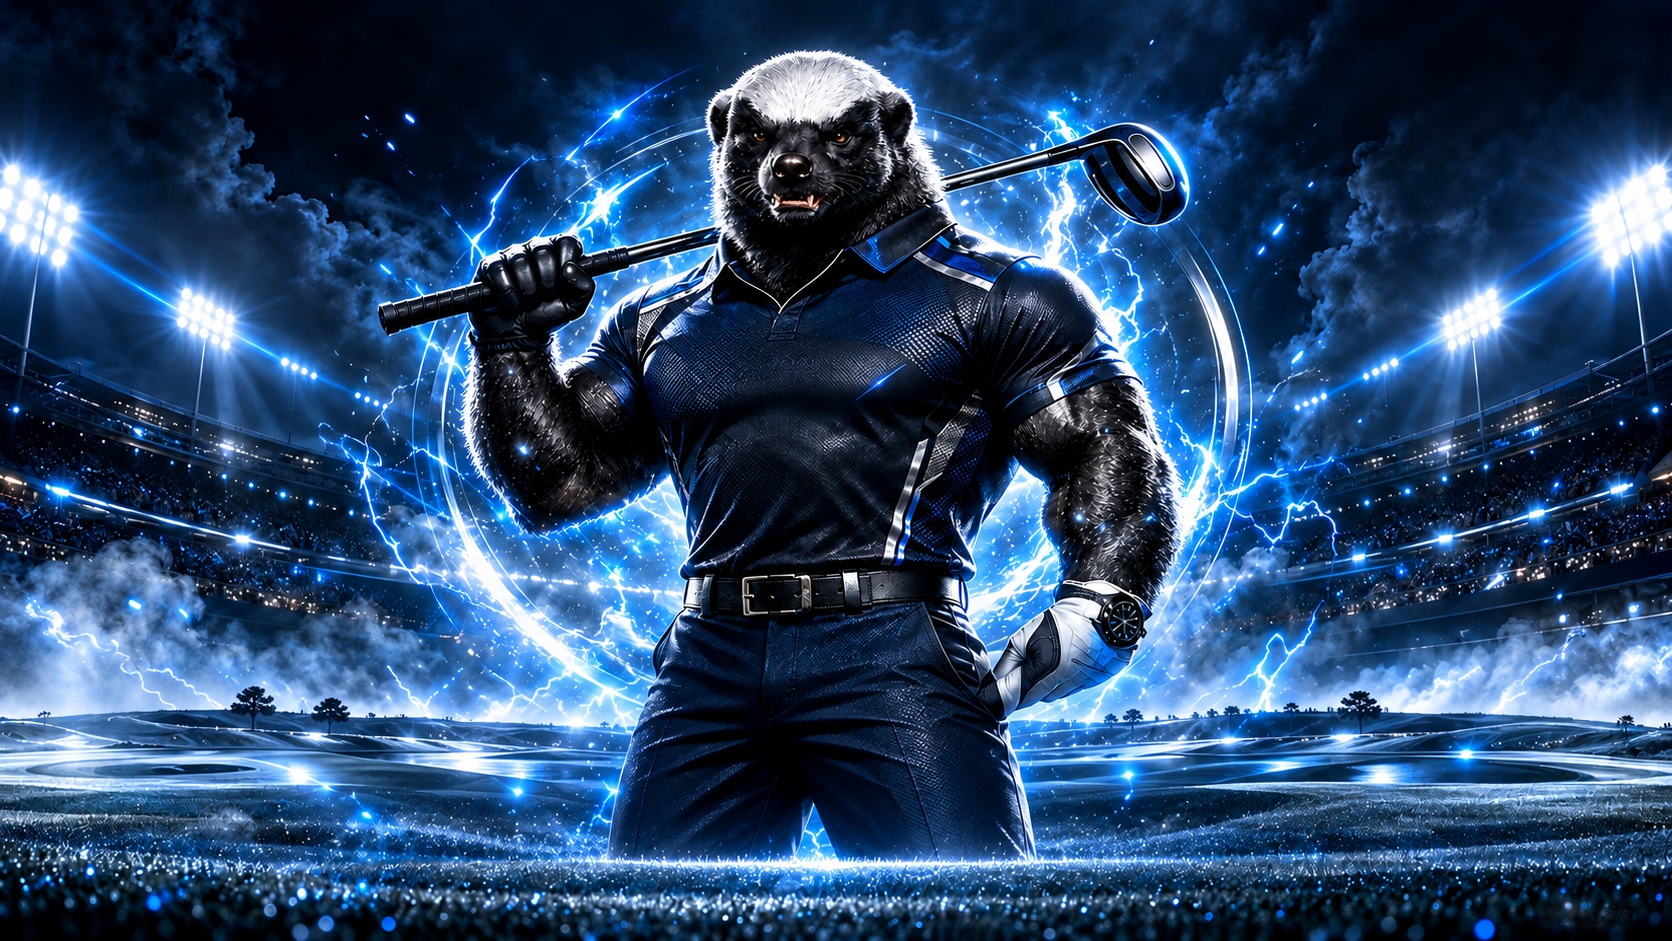
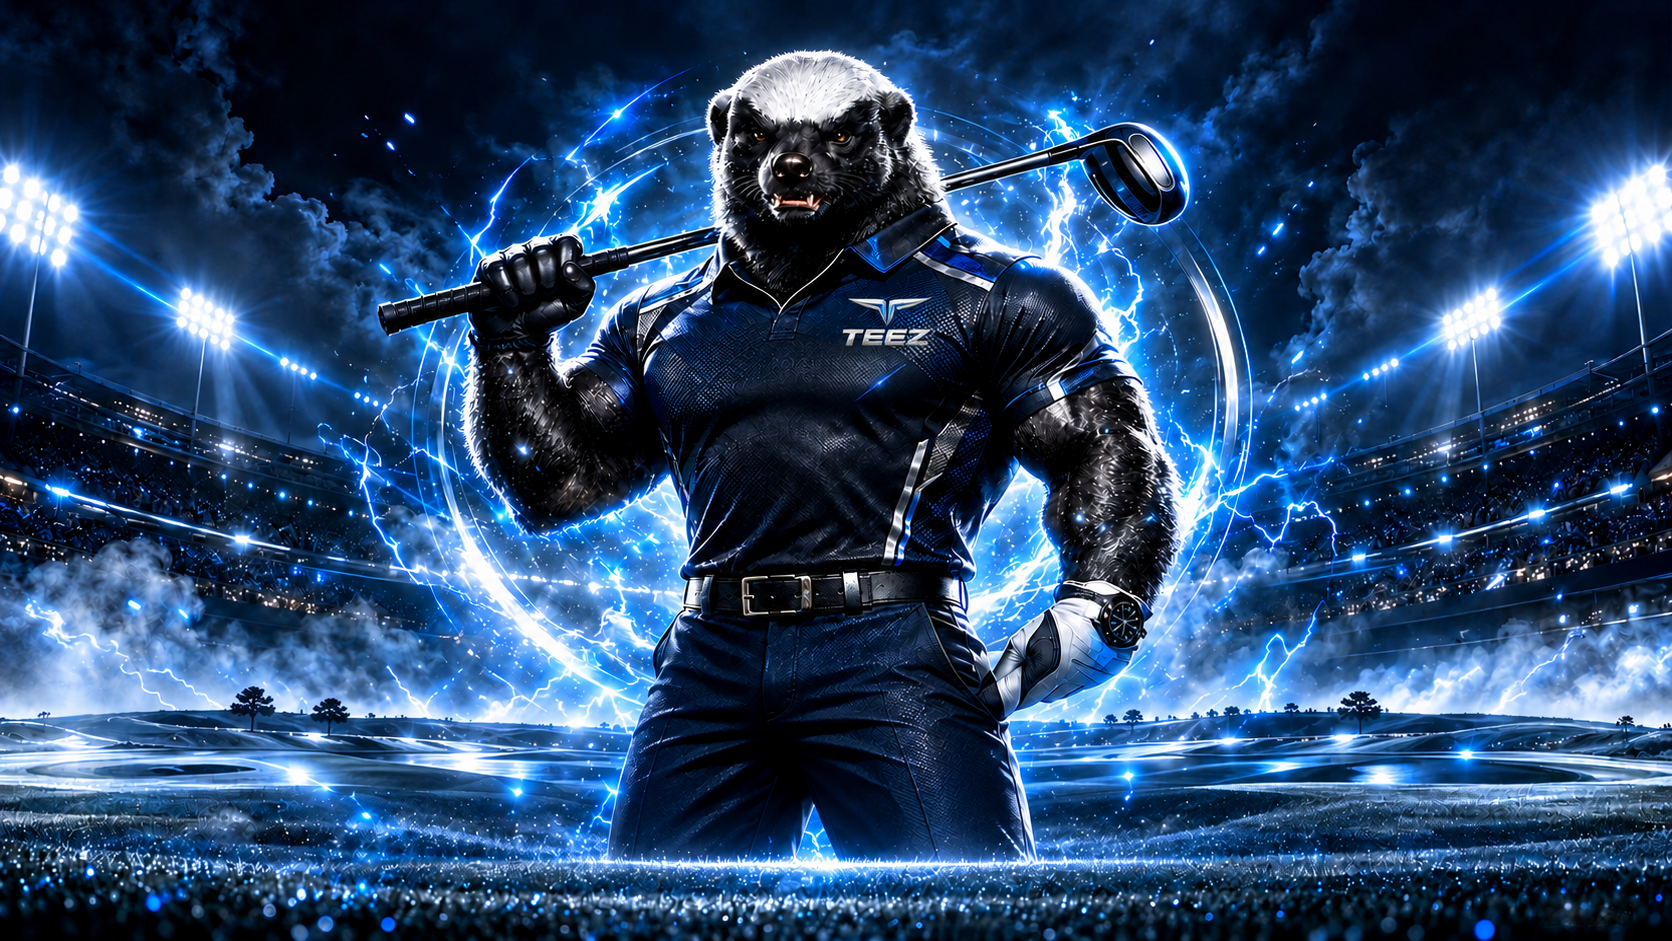
Update TEEZ Finals dashboard and images

diff --git a/app/main/page.tsx b/app/main/page.tsx
@@ -248,7 +248,7 @@ export default function HomePage() {
         type="button"
         className="h-14 w-full cursor-default rounded-full border border-blue-300/80 bg-blue-500/10 text-sm font-black uppercase tracking-[0.16em] text-white shadow-[0_0_18px_rgba(0,170,255,0.65),inset_0_0_18px_rgba(0,170,255,0.12)] animate-pulse"
       >
-        TEEZ TOURS AND EVENTS
+        TEEZ FINALS - "RACE TO" EVENTS
       </button>
 
     </div>
